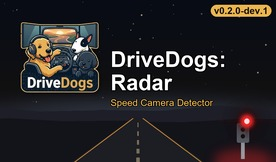
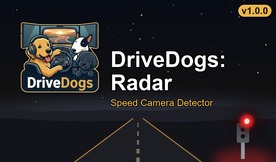
release 1.0.0: strobe-only speed cameras with readme
identical to the playtested 0.2.0-dev.1 apart from the version and cover badge; the sdk ignore rule
goes with the removed plugin.

Changed region(s): [[0.7536, 0.0, 0.9855, 0.1235]]

diff --git a/README.md b/README.md
@@ -1,0 +1,36 @@
+# DriveDogs: Radar
+
+Euro Truck Simulator 2 mod: every **fining speed camera** of the base game and all SCS map DLCs blinks a
+red police-style strobe, so you see it before it sees you. No sounds, no truck parts, ~1.8 MB.
+
+- 69 camera models (every model the game fines with), 707 cameras placed on the map (ETS2 1.61).
+- Only the cameras' `.pmg` files are overridden (strobe locators added); base models, collisions and
+  materials are reused, so it does not conflict with truck, interior or map-look mods.
+
+Want a "camera ahead" warning on a dashboard, phone or LEDs? Detection lives in the
+**DevDogs.TruckSimulator** SimHub plugin, which uses the same camera database (see
+[ADR-0001](docs/adr/ADR-0001-strobe-only-mod-detection-in-simhub.md)).
+
+## Install
+Copy `drivedog_radar_v<version>.scs` into `Documents\Euro Truck Simulator 2\mod` and enable it in the Mod
+Manager. Optional for multiplayer (`mp_mod_optional`).
+
+## Build (after a game update)
+Requires Python 3 + Pillow, `scs_packer` on `PATH`, and the extracted game reference
+(`<reference root>/base/<version>`, resolved through the `scs-mod-developer` profile helpers;
+`GAME_VERSION` in `tools/scs_common.py`).
+
+```bash
+python tools/scan_cameras.py        # data/cameras.json  - fining camera models
+python tools/extract_camera_db.py   # data/camera_db.csv + .meta.json - placed cameras (game version)
+python tools/generate_cover.py      # src/cover.jpg (version badge from VERSION)
+python tools/build_mod.py --version "$(cat VERSION)"   # lint + output/drivedog_radar_v<version>.scs
+```
+
+Strobe positions come from `data/placement_overrides.json` (hand-placed) or a gantry/pole heuristic.
+The camera DB is copied into the SimHub plugin repo only for the **same game version**
+(`data/camera_db.meta.json`).
+
+## History
+`docs/POC-PLAN.md` records the proof of concept (10 in-game rounds), including why an in-cab indicator
+was not possible as a mod.

diff --git a/docs/POC-PLAN.md b/docs/POC-PLAN.md
@@ -3,7 +3,7 @@
 Working document for the proof of concept (owner + Claude only). Status as of 2026-10-07, game 1.61.
 
 > **Outcome (2026-10-09, [ADR-0001](adr/ADR-0001-strobe-only-mod-detection-in-simhub.md)):** the mod is
-> **strobe-only** (v0.2.0). Speed-camera detection + display move to the DevDogs.TruckSimulator SimHub
+> **strobe-only** (released as v1.0.0, 2026-10-10). Speed-camera detection + display move to the DevDogs.TruckSimulator SimHub
 > plugin (plan `speedcam-radar` in that project, after its .NET port passes testing). Everything below is
 > the POC record; the removed code lives at `12a5936`.
 
